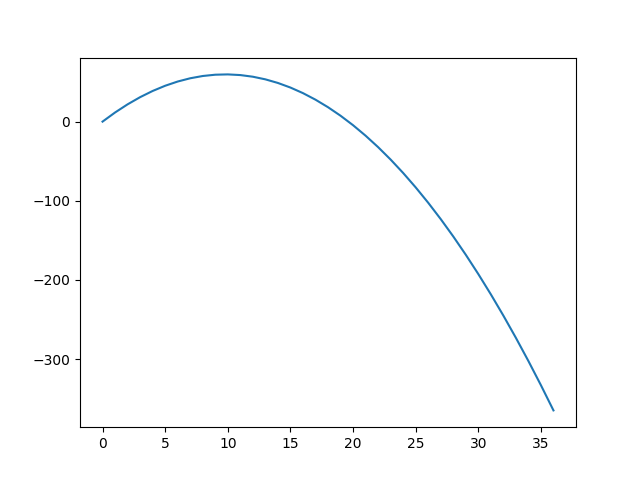
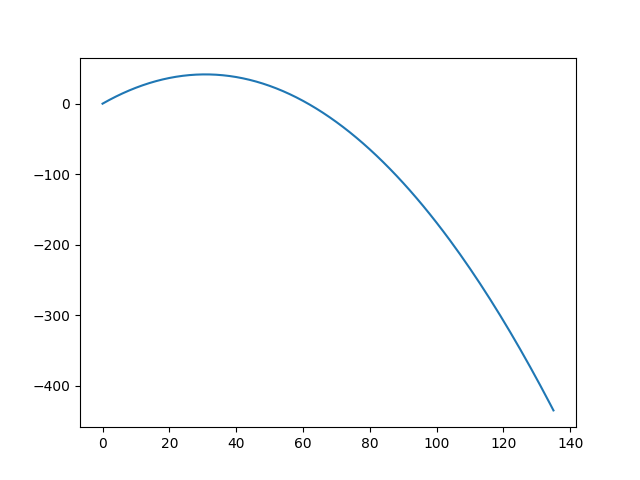
duration stuff

diff --git a/prototype1.py b/prototype1.py
@@ -4,8 +4,9 @@ import matplotlib.pyplot as plt
 import time
 
 pygame.init()
-info = pygame.display.Info()
-window = pygame.display.set_mode((info.current_w,info.current_h))
+width = 800
+height = 600
+window = pygame.display.set_mode((width,height))
 pygame.display.set_caption("Projectile Motion")
 clock = pygame.time.Clock()
 
@@ -18,10 +19,10 @@ red = (255, 0, 0)
 green = (0, 100, 0)
 blue = (0, 0, 255)
 font = pygame.font.SysFont("Comic Sans MS", 30, False)
-mousex = (info.current_w)/2
-mousey = (info.current_h)/2
+mousex = (width)/2
+mousey = (height)/2
 
-ground_r = pygame.Rect(0, info.current_h-200, info.current_w, 100)
+ground_r = pygame.Rect(0, height-100, width, 100)
 ball_r = pygame.Rect(5,ground_r.y-10,10,10)
 
 def velocity():
@@ -46,22 +47,22 @@ def ballmotion():
         mousey-=5
     if keys[pygame.K_DOWN]:
         mousey+=5
-    pygame.draw.line(window,red,pygame.math.Vector2(ball_r.x+10,ball_r.y),pygame.math.Vector2(mousex,mousey),5)
-    leny = (mousey-ground_r.y+10)/300
-    lenx = (mousex-15)/300
+    pygame.draw.aaline(window,red,pygame.math.Vector2(ball_r.x+10,ball_r.y),pygame.math.Vector2(mousex,mousey),5)
+    leny = (mousey-ground_r.y+10)/(width/4)
+    lenx = (mousex-15)/(width/4)
     try:
         angle = (round(math.degrees(math.atan(leny/lenx)),1))*-1 
     except ZeroDivisionError:
         angle = 90
-    hdistance = round((mousex)/300,2)
-    vdistance = round(((info.current_h-210)-mousey)/300,2)
+    hdistance = round((mousex)/(width/4),2)
+    vdistance = round(((height-210)-mousey)/(width/4),2)
     velocity()
     duration = math.sqrt(vvelocity**2+hvelocity**2)/9.81
     window.blit(font.render(f"Vertical Velocity: {vvelocity}m/s", True, black, None), (2,40))
     window.blit(font.render(f"Horizonal Velocity: {hvelocity}m/s", True, black, None), (2,80))
     window.blit(font.render(f"Angle: {angle}°", True, black, None),(2,0))
     window.blit(font.render(f"Time: {round(duration,2)}s", True, black, None),(2,120))
-    window.blit(font.render("1m", True, black, None),(300,ball_r.y+10))
+    window.blit(font.render("1m", True, black, None),((width/4),ball_r.y+10))
 
 def mainloop():
     global angle,vvelocity,hvelocity,duration,lenx,leny
@@ -85,30 +86,26 @@ def mainloop():
         if keys[pygame.K_SPACE]:
             currenttime.append(time.time())
             try:
-                if currenttime[j] >= currenttime[0]+duration:
+                if currenttime[j] >= currenttime[0]+(duration*4):
                     for i in range(len(x)):
                         newx = (ball_r.x+x[i]*5)
                         newy = (ball_r.y-y[i]*5)
-                        if newy < 0:
-                            newy*=-1
-                            y[i]*=-1
-                        if newx < 0:
-                            newx*=-1
-                            x[i]*=-1 
                         ball_r2 = pygame.Rect(newx,newy,5,5)
                         pygame.draw.rect(window,black,ball_r2)
                 else:
-                    window.blit(font.render("graph", True, black, None),(300,200))
+                    window.blit(font.render("graph", True, black, None),((width/4),200))
                     r = vvelocity**2+hvelocity**2
                     x.append(i)
+                    k = leny/lenx
+                    #y.append((k*(x[i]**2))-(9.81*(x[i]**2))*((1+(k**2))/(2*(r**2))))
                     y.append(x[i]*math.tan(leny/lenx)-(9.81*(x[i]**2))*((1+(math.tan(leny/lenx)**2))/(2*(r**2))))
                     i+=1
                 j+=1
             except IndexError:
                 currenttime = []
                 j=0
-        pygame.draw.line(window,blue,pygame.Vector2(ball_r.x,ball_r.y+10),pygame.Vector2((hdistance*300),(ball_r.y+10)),3)
-        pygame.draw.line(window,green,pygame.Vector2(ball_r.x,ball_r.y+10),pygame.Vector2((ball_r.x),((info.current_h-210)-vdistance*300)),3)
+        pygame.draw.line(window,blue,pygame.Vector2(ball_r.x,ball_r.y+10),pygame.Vector2((hdistance*(width/4)),(ball_r.y+10)),3)
+        pygame.draw.line(window,green,pygame.Vector2(ball_r.x,ball_r.y+10),pygame.Vector2((ball_r.x),((height-210)-vdistance*(width/4))),3)
         pygame.display.update()
         clock.tick(fps)
     pygame.quit()
